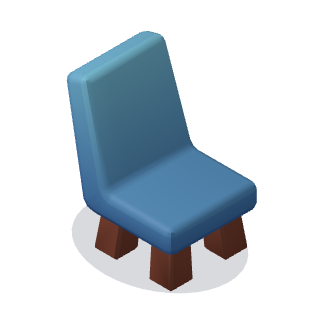
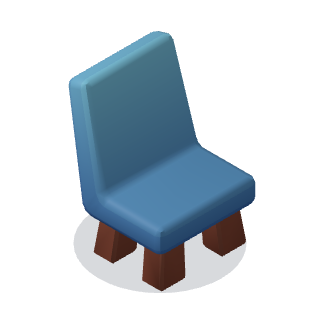
Fix office chair size: 0.65 m footprint, fitted to the footprint
The chair was fitted by height alone, so it was drawn about 0.74 m deep, 23%
over its 0.6 m footprint. Use a 0.65 m task-chair footprint and stretch the
model to it. Regenerate its icon and the contact sheet, and remove the office
chair's known-mismatch allowance from the bounding-box test.

Claude-Session: https://claude.ai/code/session_01VbLrW7odCSmEqDq3pYYvr4

diff --git a/src/three/modelLibrary.ts b/src/three/modelLibrary.ts
@@ -29,7 +29,8 @@ export interface ModelSpec {
 /** Asset type -> library model. Types that are not listed use the procedural model. */
 export const MODEL_SPECS: Partial<Record<AssetType, ModelSpec>> = {
   // Both chairs face +Z in the library; the app's convention is +X, hence the +90° yaw.
-  chair_office: { file: 'chair_C.gltf', fit: 'height', height: 0.95, yaw: Math.PI / 2 },
+  // Stretched to the 0.65 m footprint: fitting by height alone drew it ~0.74 m deep, 23% over the footprint.
+  chair_office: { file: 'chair_C.gltf', fit: 'stretch', height: 0.95, yaw: Math.PI / 2 },
   // Stretched to a real 0.9 m square footprint: the library armchair is far wider than deep-in-height,
   // so fitting it by height alone drew it ~1.2 m wide, twice the footprint used for collisions.
   chair_lounge: { file: 'armchair_pillows.gltf', fit: 'stretch', height: 0.85, yaw: Math.PI / 2 },

diff --git a/tests/unit/boundingBox.test.ts b/tests/unit/boundingBox.test.ts
@@ -71,11 +71,10 @@ const SCALED_FOOTPRINT: Partial<Record<PlacedAsset['type'], { x: number; z: numb
 /**
  * How far a 'height'-fitted model may overhang its declared footprint before the
  * collision and occupancy maths stop matching what is drawn. Everything else must stay
- * within 5%. The office chair and plant pot are KNOWN to be larger than their footprint. Tighten these when the
+ * within 5%. The plant pot is KNOWN to be larger than its footprint. Tighten these when the
  * footprints or models are corrected; the test fails if they get worse.
  */
 const MAX_OVERHANG: Partial<Record<PlacedAsset['type'], number>> = {
-  chair_office: 1.25,
   plant_pot: 1.45,
 };
 const DEFAULT_OVERHANG = 1.05;

diff --git a/src/utils/geometry.ts b/src/utils/geometry.ts
@@ -59,7 +59,8 @@ export function getAssetSize(asset: PlacedAsset): { width: number; depth: number
     case 'conference_table':
       return { width: scaleX, depth: scaleZ };
     case 'chair_office':
-      return { width: 0.6, depth: 0.6 };
+      // Typical task chair: 0.65 m five-star base.
+      return { width: 0.65, depth: 0.65 };
     case 'chair_lounge':
       // Real lounge armchairs are about 0.9 m square (the procedural fallback is 1.0 x 0.9).
       return { width: 0.9, depth: 0.9 };
